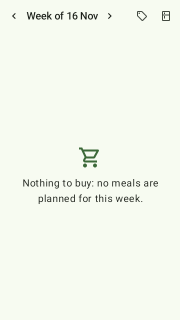
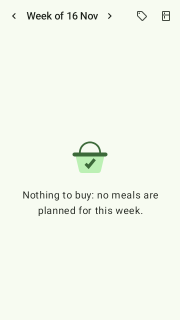
Screenshot tests follow shopping mode; re-record against main
ShoppingScreen takes the settings storage now. Shopping is pictured with shopping
mode off, plus one pair with it on (a ticked item inside it), and the pictures are
recorded again.

Changed region(s): [[0.1111, 0.4375, 0.8889, 0.6875]]

diff --git a/composeApp/src/androidHostTest/kotlin/dev/tobins/mealplanner/app/ScreenshotTest.kt b/composeApp/src/androidHostTest/kotlin/dev/tobins/mealplanner/app/ScreenshotTest.kt
@@ -6,6 +6,7 @@ import androidx.compose.foundation.layout.size
 import androidx.compose.material3.Surface
 import androidx.compose.runtime.Composable
 import androidx.compose.runtime.CompositionLocalProvider
+import androidx.compose.runtime.remember
 import androidx.compose.ui.Modifier
 import androidx.compose.ui.platform.LocalDensity
 import androidx.compose.ui.platform.testTag
@@ -37,12 +38,19 @@ data class Look(val dark: Boolean, val widthDp: Int, val fontScale: Float) {
     val name get() = "${if (dark) "dark" else "light"}-${widthDp}dp-x$fontScale"
 }
 
+@Composable
+private fun shopping(api: ApiClient, shoppingMode: Boolean) {
+    val storage = remember { MemorySettingsStorage().also { it.saveShoppingMode(shoppingMode) } }
+    ShoppingScreen(api, ShoppingCache(storage), storage, {}, {})
+}
+
 /** A screen under test and the sample data it gets. */
 enum class Shot(val emptyWeek: Boolean = false, val content: @Composable (ApiClient, ServerSettings) -> Unit) {
     TODAY(content = { api, _ -> TodayScreen(api, {}, {}) }),
     PLAN(content = { api, _ -> PlanScreen(api, {}, {}) }),
-    SHOPPING(content = { api, _ -> ShoppingScreen(api, ShoppingCache(MemorySettingsStorage()), {}, {}) }),
-    SHOPPING_EMPTY(emptyWeek = true, content = { api, _ -> ShoppingScreen(api, ShoppingCache(MemorySettingsStorage()), {}, {}) }),
+    SHOPPING(content = { api, _ -> shopping(api, shoppingMode = false) }),
+    SHOPPING_MODE(content = { api, _ -> shopping(api, shoppingMode = true) }),
+    SHOPPING_EMPTY(emptyWeek = true, content = { api, _ -> shopping(api, shoppingMode = false) }),
     RECIPES(content = { api, _ -> RecipeListScreen(api, {}, {}, {}) }),
     RECIPE_DETAIL(content = { api, _ -> RecipeDetailScreen(api, 4, "NEVO online version 2025/9.0, RIVM, Bilthoven", {}, {}) }),
     OFFERS(content = { api, _ -> OffersScreen(api, {}, {}) }),

diff --git a/README.md b/README.md
@@ -100,7 +100,7 @@ optional fields is safe. Removing or renaming a field, or changing its meaning, 
 ## Screenshot tests
 
 Layout is checked without an emulator: `ScreenshotTest` (`composeApp/src/androidHostTest`) renders the
-Today, Plan, Shopping (also with an empty week), Recipes, recipe detail, Offers, Prices, Progress and
+Today, Plan, Shopping (also in shopping mode and with an empty week), Recipes, recipe detail, Offers, Prices, Progress and
 Settings screens on the JVM with Robolectric and Roborazzi, and compares each with its picture in
 `composeApp/src/androidHostTest/screenshots`. The screens talk to `FakeBackend`, a local server with fixed
 sample data, with the date, time zone and locale (English, UK) fixed, so a picture only changes when the
